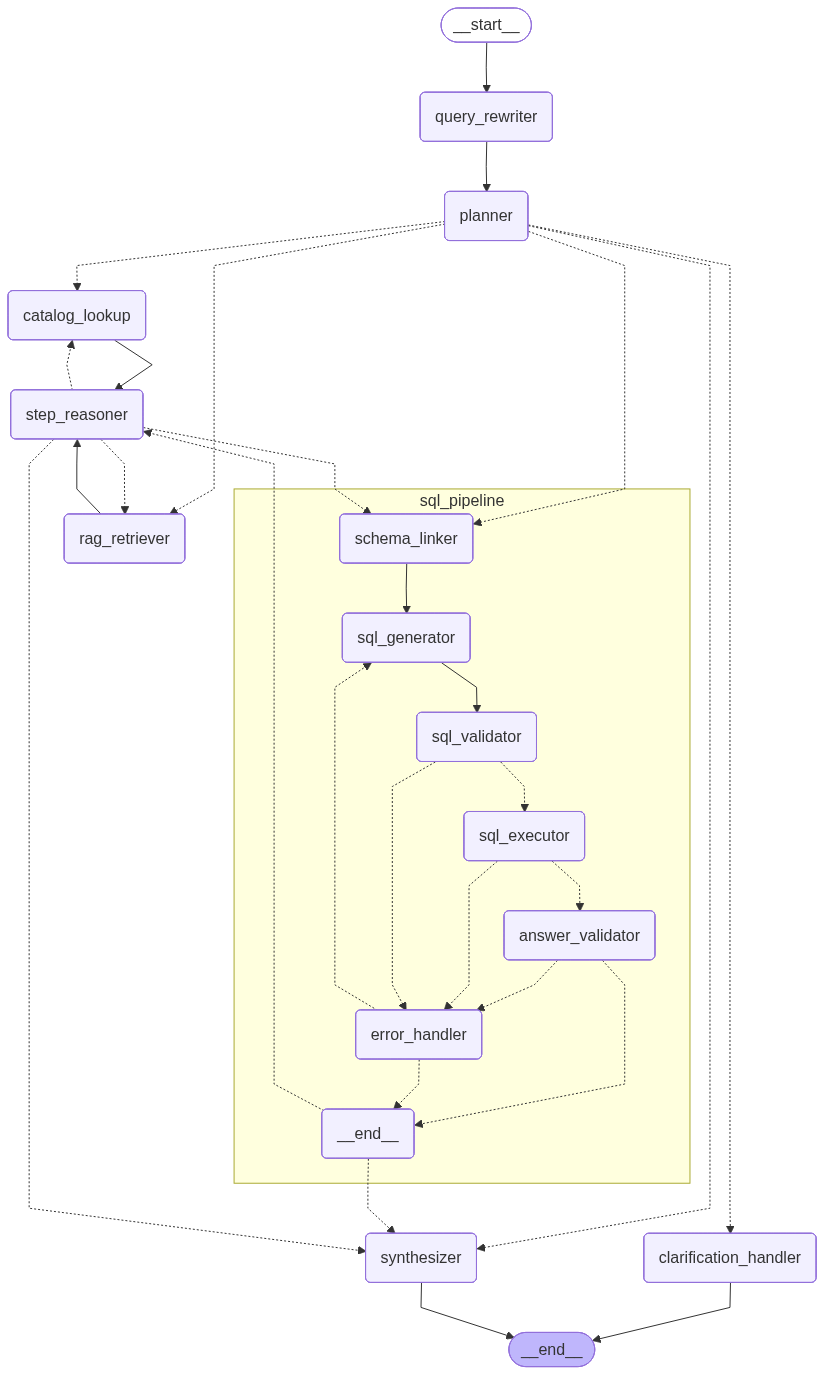
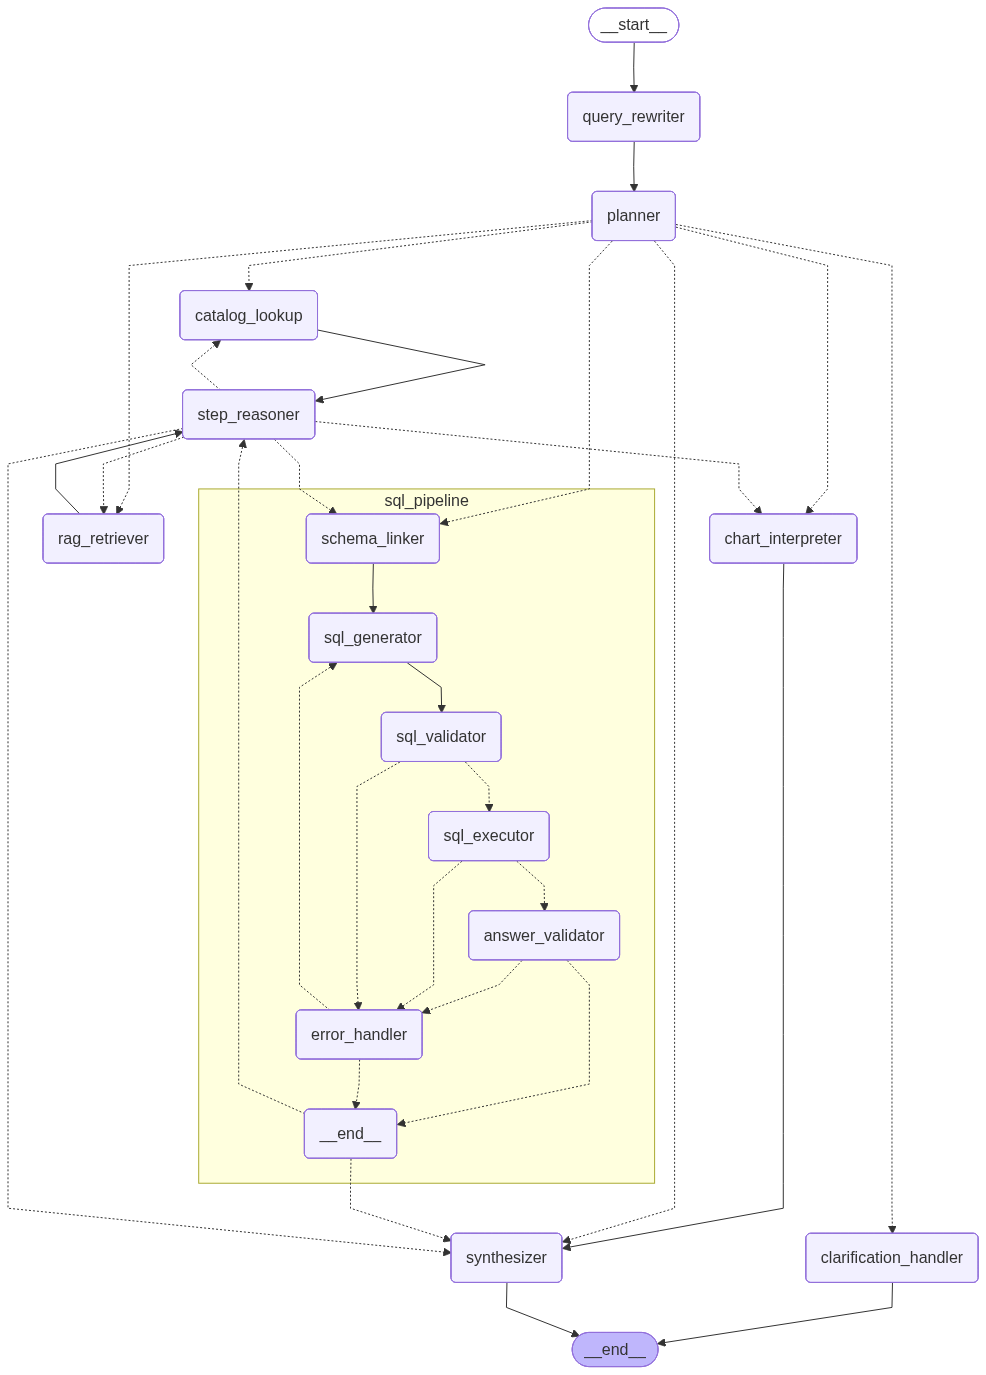
feat: modify agent security

diff --git a/agent/llm.py b/agent/llm.py
@@ -6,7 +6,7 @@ from langchain_anthropic import ChatAnthropic
 from core.config import settings
 import os
 
-load_dotenv()
+load_dotenv(override=True)
 OPENROUTER_MODEL_ENVS: dict[str, tuple[str, ...]] = {
     "intent_classification": ("INTENT_MODEL", "INTENT_CLASSIFICATION_MODEL"),
     "query_rewriter": ("REWRITER_MODEL", "QUERY_REWRITER_MODEL"),
@@ -87,6 +87,10 @@ TASK_MODEL_MAPPING["llm_evaluation"] = {
     "provider": os.getenv("EVAL_PROVIDER", "google"),
     "model": os.getenv("EVAL_MODEL", os.getenv("GOOGLE_MODEL", "gemini-1.5-pro"))
 }
+TASK_MODEL_MAPPING["intent_classification"] = {
+    "provider": os.getenv("INTENT_PROVIDER", DEFAULT_PROVIDER),
+    "model": os.getenv("INTENT_MODEL", "llama3-8b-8192")
+}
 
 TASK_MODEL_MAPPING["rag_generation"] = {
     "provider": os.getenv("RAG_GEN_PROVIDER", "google"),
@@ -98,20 +102,7 @@ TASK_MODEL_MAPPING["rag_faithfulness"] = {
 }
 
 
-def get_llm(task_type: str = "general", force_json: bool = True):
-    """Returns a LangChain Chat Model instance for the given task.
-
-    Args:
-        task_type: Key from TASK_MODEL_MAPPING.
-        force_json: If True, requests JSON output format where supported.
-    """
-    mapping = TASK_MODEL_MAPPING.get(
-        task_type,
-        {"provider": DEFAULT_PROVIDER, "model": DEFAULT_MODEL},
-    )
-    provider = mapping["provider"].lower()
-    model_name = mapping["model"]
-
+def _create_llm_instance(provider: str, model_name: str, force_json: bool, task_type: str):
     if provider == "openrouter":
         kwargs = {
             "api_key": settings.OPENROUTER_API_KEY,
@@ -180,3 +171,27 @@ def get_llm(task_type: str = "general", force_json: bool = True):
         return ChatOpenAI(**kwargs)
 
     raise ValueError(f"Unsupported LLM provider '{provider}' for task '{task_type}'.")
+
+
+def get_llm(task_type: str = "general", force_json: bool = True):
+    """Returns a LangChain Chat Model instance for the given task.
+
+    Args:
+        task_type: Key from TASK_MODEL_MAPPING.
+        force_json: If True, requests JSON output format where supported.
+    """
+    mapping = TASK_MODEL_MAPPING.get(
+        task_type,
+        {"provider": DEFAULT_PROVIDER, "model": DEFAULT_MODEL},
+    )
+    provider = mapping["provider"].lower()
+    model_name = mapping["model"]
+
+    primary_llm = _create_llm_instance(provider, model_name, force_json, task_type)
+
+    if provider == "groq" and settings.GOOGLE_API_KEY:
+        google_model = os.getenv("GOOGLE_MODEL", "gemini-2.5-flash")
+        fallback_llm = _create_llm_instance("google", google_model, force_json, task_type)
+        return primary_llm.with_fallbacks([fallback_llm])
+
+    return primary_llm

diff --git a/agent/tools/security.py b/agent/tools/security.py
@@ -147,8 +147,8 @@ def check_sql_security(
 
     stmt = statements[0]
 
-    if not isinstance(stmt, exp.Select):
-        return False, f"Security Violation: Only SELECT allowed, got {type(stmt).__name__}"
+    if not isinstance(stmt, (exp.Query, exp.Subquery)):
+        return False, f"Security Violation: Only read-only queries allowed, got {type(stmt).__name__}"
 
     # Check for write ops in subqueries/CTEs
     for node in stmt.walk():

diff --git a/agent/state.py b/agent/state.py
@@ -21,7 +21,7 @@ class QueryType(str, Enum):
 
 class AgentDomain(str, Enum):
     PORTFOLIO   = "portfolio"
-    WISUDAWAN   = "wisudawan"
+    # WISUDAWAN   = "wisudawan"
     OUT_OF_SCOPE = "out_of_scope"
 
 class ValidationStatus(str, Enum):

diff --git a/core/config.py b/core/config.py
@@ -1,6 +1,6 @@
 import os
 from dotenv import load_dotenv
-load_dotenv() 
+load_dotenv(override=True) 
 
 from pydantic_settings import BaseSettings, SettingsConfigDict
 
